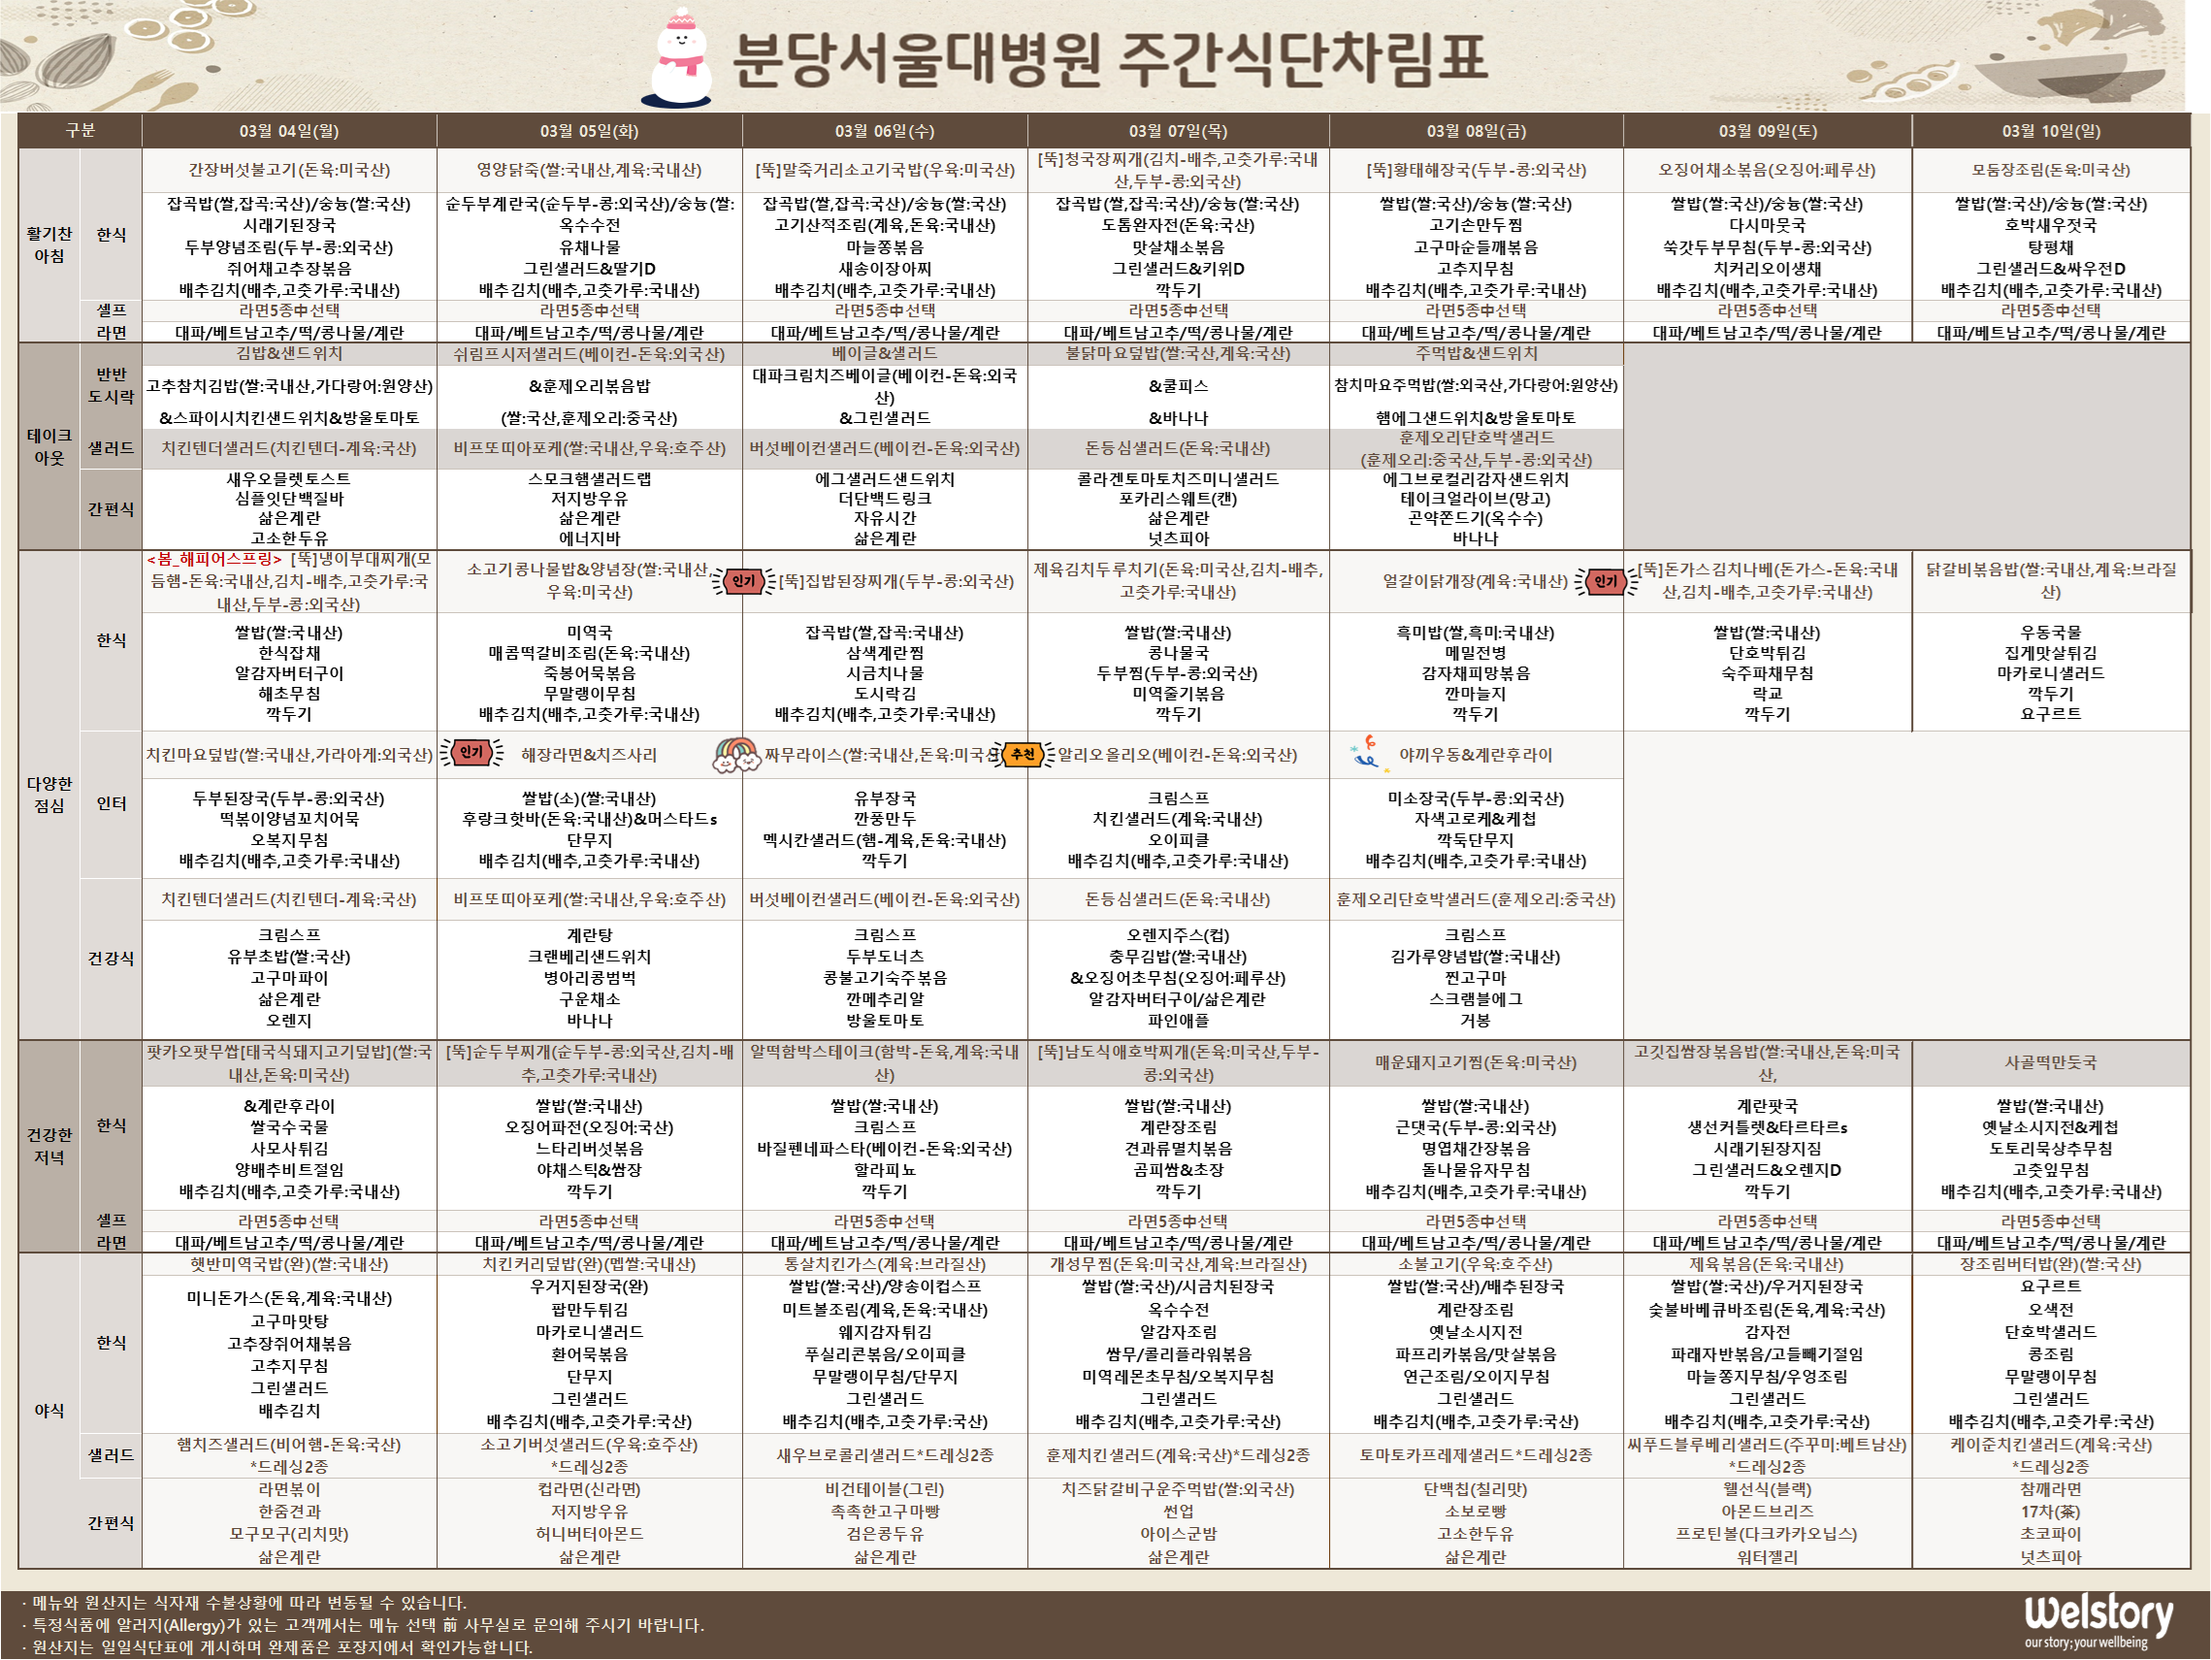
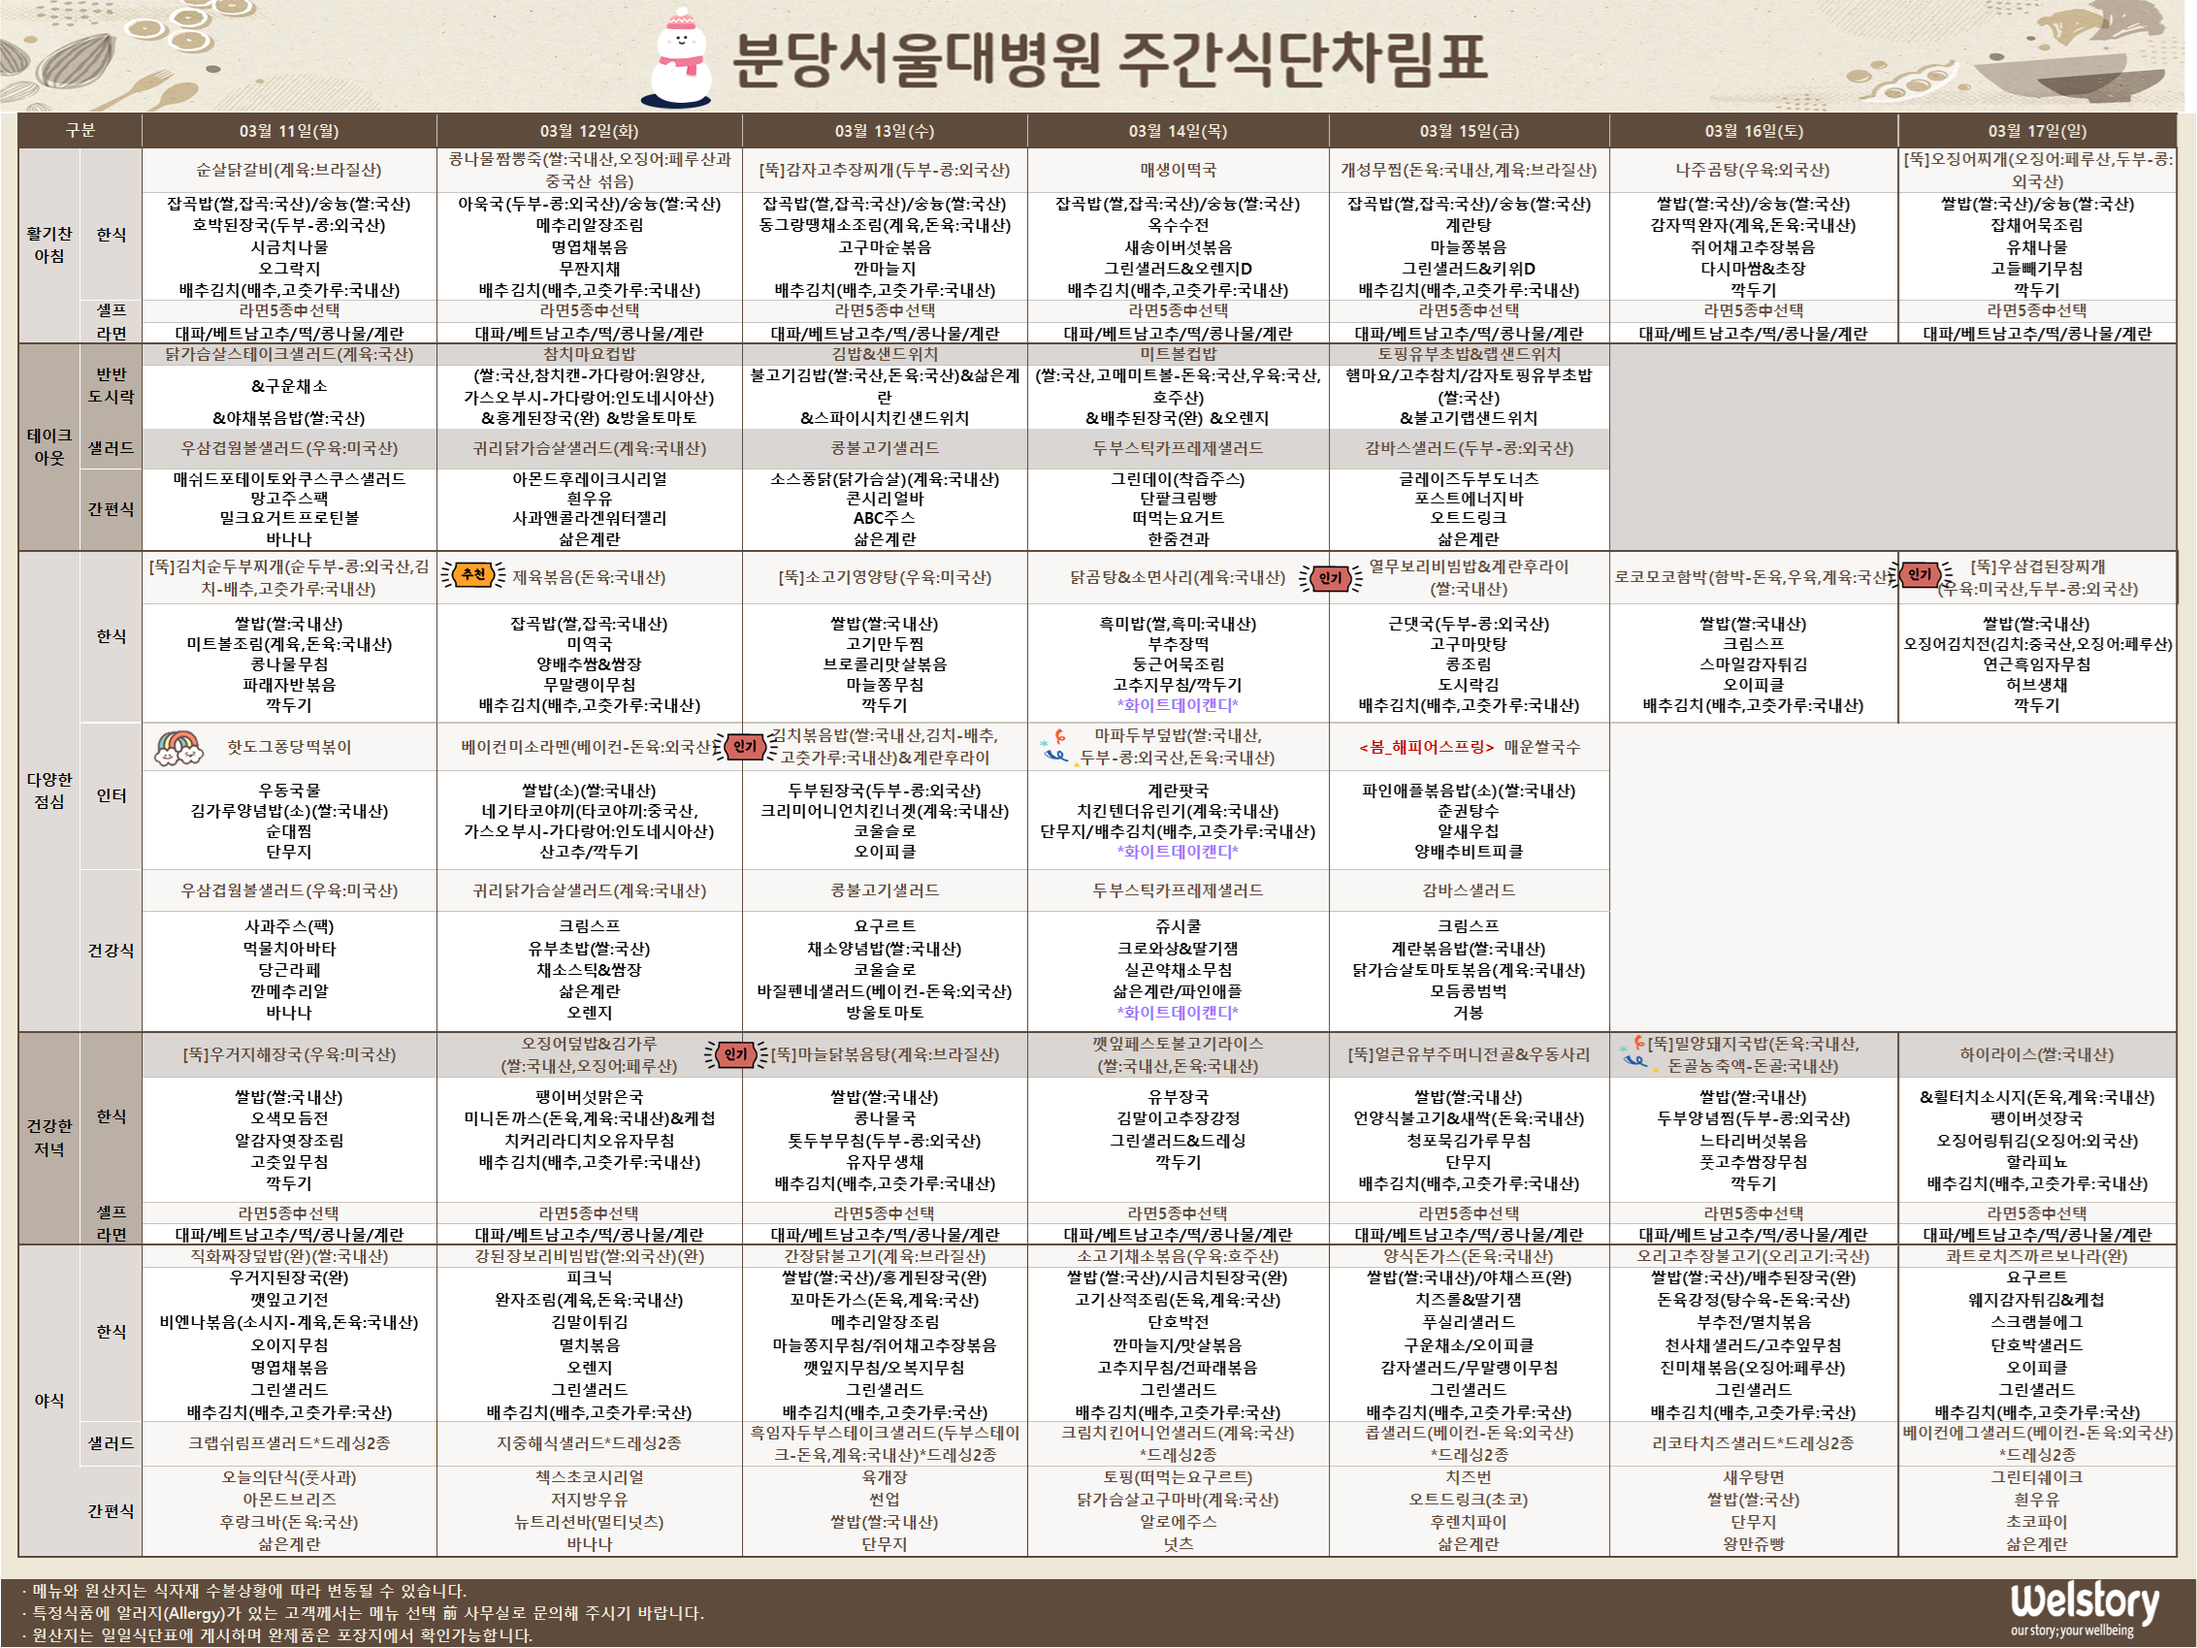
Add files via upload

diff --git a/6/index.html b/6/index.html
@@ -12,13 +12,13 @@
 <h2> 메뉴 업데이트는 주인장 여유가 되면 합니다. (이미지 확대해서 보세요) <br> </h2>
 
 <br>
-<h1> 3월 1주차 </h1>
+<h1> 3월 2주차 </h1>
 <img src="수술.png" width="100%">
 <br>
 
 
 
-<h6> Last update 2024/03/05  </h6>  
+<h6> Last update 2024/03/11  </h6>  
 <h1 >맛있게 드세요.  </h1> 
 
 </body>

diff --git a/1/index.html b/1/index.html
@@ -13,14 +13,14 @@
 
 
 <br>
-<h1> 3월 1주차  </h1>
+<h1> 3월 2주차  </h1>
 <img src="1동.png" width="100%">
 <br>
 
 
 
 
-<h6> Last update 2024/03/05  </h6>  
+<h6> Last update 2024/03/11  </h6>  
 <h1 >맛있게 드세요.  </h1> 
 
 </body>

diff --git a/2/index.html b/2/index.html
@@ -13,13 +13,13 @@
 
 
 <br>
-<h1> 3월 1주차  </h1>
+<h1> 3월 2주차  </h1>
 <img src="HIP.png" width="100%">
 <br>
 
 
 
-<h6> Last update 2024/03/05  </h6>  
+<h6> Last update 2024/03/11  </h6>  
 <h1 >맛있게 드세요.  </h1> 
 
 </body>
